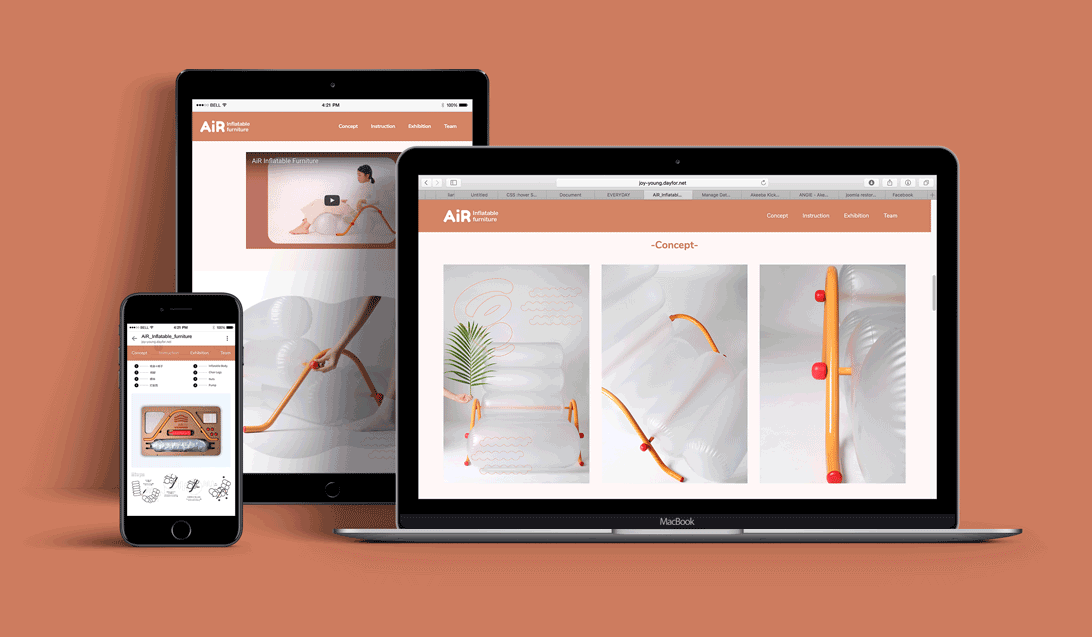
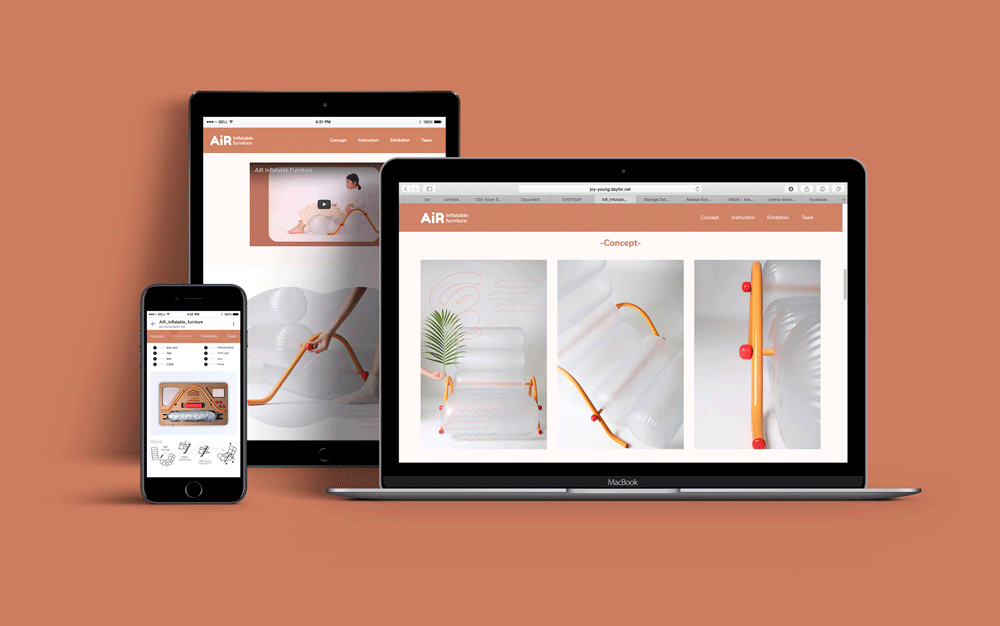
web&UI圖片改改改

diff --git a/web&uiitem_html/airfurniture.html b/web&uiitem_html/airfurniture.html
@@ -29,9 +29,9 @@
 			<a href="UI components.html" class="arrow arrow-left">previous<br><i class="fa fa-long-arrow-left fa-lg" aria-hidden="true"></i></a>
 	        <div class="item  first biggersquare"><img src="../works-new/ui/air furniture/air1.gif" alt=""></div>
 	        <div class="item biggersquare"><img src="../works-new/ui/air furniture/air-mockup2.png" alt=""></div>
-	        <div class="item biggersquare"><img src="../works-new/ui/air furniture/01.png" alt=""></div>
-	        <div class="item biggersquare"><img src="../works-new/ui/air furniture/04.png" alt=""></div>
-	        <div class="item biggersquare"><img src="../works-new/ui/air furniture/05.png" alt=""></div>
+	        <div class="item biggersquare"><img src="../works-new/ui/air furniture/01_browser.png" alt=""></div>
+	        <div class="item biggersquare"><img src="../works-new/ui/air furniture/04_browser.png" alt=""></div>
+	        <div class="item biggersquare"><img src="../works-new/ui/air furniture/05_browser.png" alt=""></div>
 	        <div class="info item">
 		    	<h1>AiR Furniture Website</h1>
 		    	<a style="margin-bottom: 10px;" href="https://liuliangyin.github.io/AiR/" target="_blank" class="enter">Enter Website</a>
@@ -40,7 +40,7 @@
 				<br>
 				-<br>	
 				團隊成員:譚雅云、陳凡、劉亮吟<br>
-				個人負責：產品發想、設計實作、展場規劃、品牌網站規劃、前端開發(html/css/jquery)</h2>
+				個人負責：產品發想、設計實作、展場規劃、品牌網站規劃、網頁切版(html/css/jquery)、RWD。</h2>
 				
 		    	
 		    </div>
@@ -52,9 +52,9 @@
 
 				
 				-<br>
-				I'm responsible for design thinking, 1:1 solid modelling, exhibition planning, web design(html/css/jquery).</h2>
+				In charge of design thinking, 1:1 solid modelling, exhibition planning, front-end developing(html/css/jquery), RWD.</h2>
 	
-		    	<p>product design</p><p>web design</p><p>front-end develope</p><p>RWD</p>
+		    	<p>product design</p><p>web design</p><p>front-end developing</p>
 		    	
 		    </div>
 		    <a href="musicshare.html" class="arrow arrow-right">next<br><i class="fa fa-long-arrow-right fa-lg" aria-hidden="true"></i></a>

diff --git a/web&uiitem_html/everyday.html b/web&uiitem_html/everyday.html
@@ -25,15 +25,17 @@
 
 
 	<div class="wrapper">
-		<div class="horizon scroll eighthwidth">
+		<div class="horizon scroll seventhwidth">
 			<a href="musicshare.html" class="arrow arrow-left">previous<br><i class="fa fa-long-arrow-left fa-lg" aria-hidden="true"></i></a>
-	        <div class="item "><img src="../works-new/ui/app/01.png" alt=""></div>
-	        
-	        <div class="item square"><img src="../works-new/ui/app/02.png" alt=""></div>
-	        <div class="item square"><img src="../works-new/ui/app/04.png" alt=""></div>
-	        <div class="item square"><img src="../works-new/ui/app/05.png" alt=""></div>
-	        <div class="item square"><img src="../works-new/ui/app/08.png" alt=""></div>
-	        <div class="item square"><img src="../works-new/ui/app/07.png" alt=""></div>
+	        <!-- <div class="item"><img src="../works-new/ui/app/01.png" alt=""></div> -->
+	        <div class="item first biggersquare"><img src="../works-new/ui/app/mockup_hands.jpg" alt=""></div>
+	        <div class="item biggersquare"><img src="../works-new/ui/app/mockup2.png" alt=""></div>
+	       
+	        <div class="item biggersquare"><img src="../works-new/ui/app/mockup.png" alt=""></div>
+	        <div class="item biggersquare"><img src="../works-new/ui/app/mockup01.png" alt=""></div>
+	        <!-- <div class="item biggersquare"><img src="../works-new/ui/app/06.png" alt=""></div> -->
+	        <!-- <div class="item square"><img src="../works-new/ui/app/08.png" alt=""></div>
+	        <div class="item square"><img src="../works-new/ui/app/07.png" alt=""></div> -->
 	        <div class="info item">
 		    	<h1>Everyday Diary App</h1>
 		    	<h2 class="ch">Everday Personal Dairy App是一款日記App，現代人越來越少提起筆來寫字，要大家養成每天寫日記的習慣，不好維持。用手機能迅速記錄下當時的心情及發生的大小事。因此發展此套app，希望大家能把生活小細節記錄下來。<br>

diff --git a/web&uiitem_html/musicshare.html b/web&uiitem_html/musicshare.html
@@ -25,13 +25,14 @@
 
 
 	<div class="wrapper">
-		<div class="horizon scroll square seventhwidth">
+		<div class="horizon scroll square ninthwidth">
 			<a href="airfurniture.html" class="arrow arrow-left">previous<br><i class="fa fa-long-arrow-left fa-lg" aria-hidden="true"></i></a>
-	        <div class="item first biggersquare"><img src="../works-new/ui/music share/01.png" alt=""></div>
-	        <div class="item square"><img src="../works-new/ui/music share/02.png" alt=""></div>
-	        <div class="item square"><img src="../works-new/ui/music share/category.gif" alt=""></div>
-	        <div class="item square"><img src="../works-new/ui/music share/info.gif" alt=""></div>
-	        <div class="item square"><img src="../works-new/ui/music share/10.png" alt=""></div>
+	        <div class="item first biggersquare"><img src="../works-new/ui/music share/mockup.png" alt=""></div>
+	        <div class="item biggersquare"><img src="../works-new/ui/music share/app_mockup.png" alt=""></div>
+	        <div class="item biggersquare"><img src="../works-new/ui/music share/category_browser.gif" alt=""></div>
+	        <div class="item biggersquare"><img src="../works-new/ui/music share/info_browser.gif" alt=""></div>
+	        <div class="item biggersquare"><img src="../works-new/ui/music share/shareboard_browser.png" alt=""></div>
+	        <!-- <div class="item biggersquare"><img src="../works-new/ui/music share/10.png" alt=""></div> -->
 
 	        
 	        
